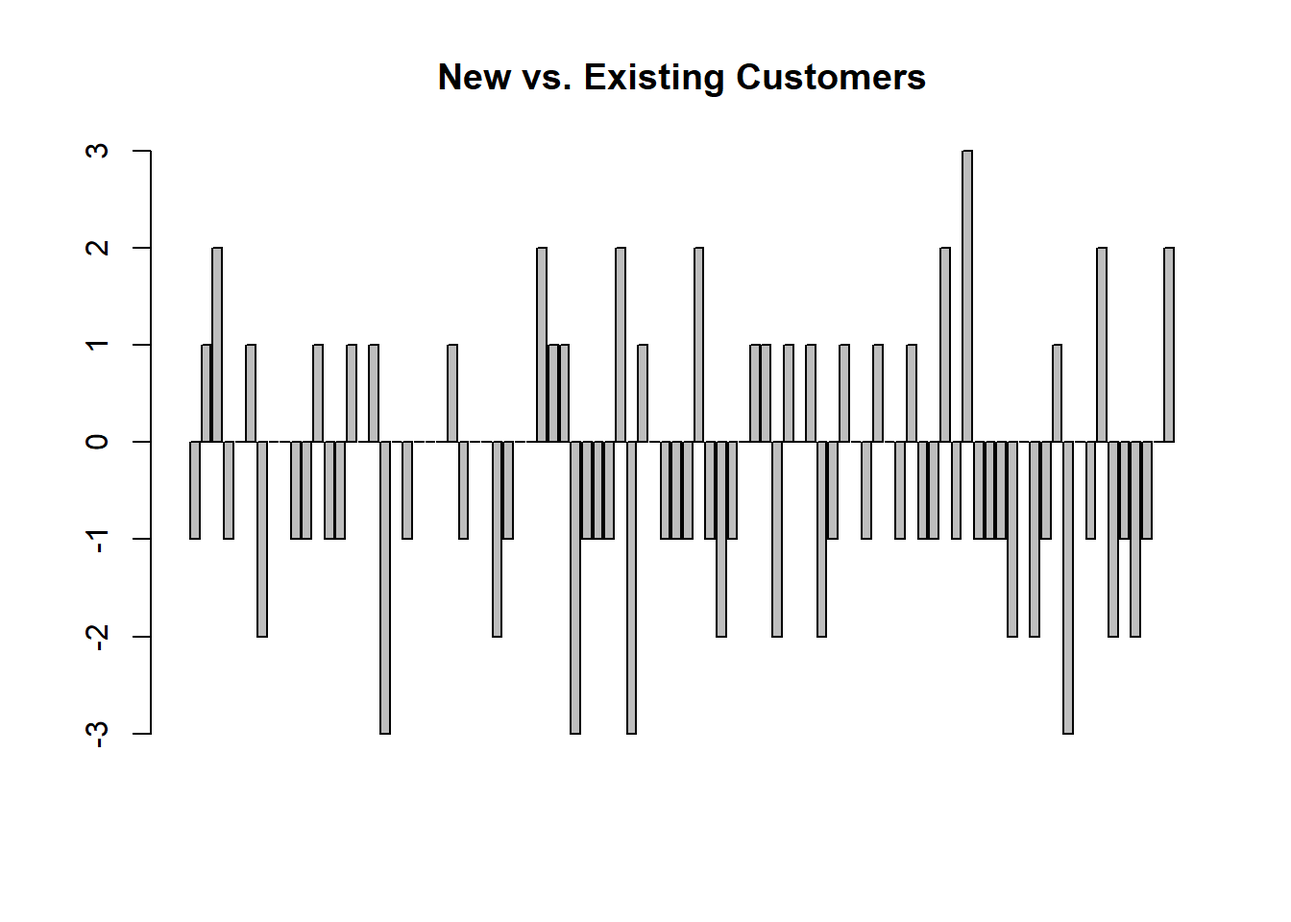
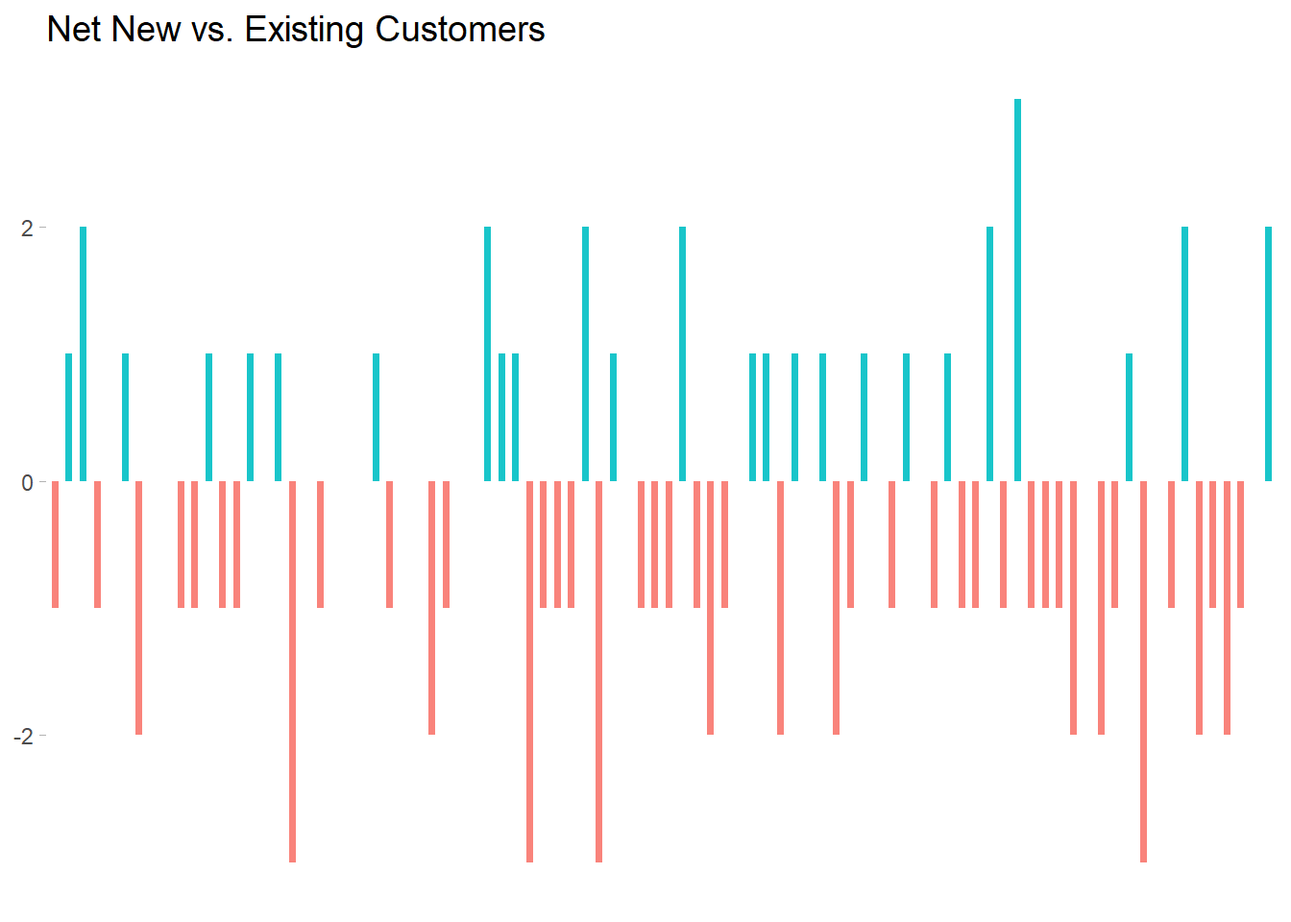
polishing scripting test

Changed region(s): [[0.0312, 0.125, 1.0, 0.9375], [0.0312, 0.0, 0.7188, 0.125], [0.0625, 0.1562, 0.0938, 0.1875]]

diff --git a/docs/scripting.html b/docs/scripting.html
@@ -404,7 +404,7 @@ code span.wa { color: #60a0b0; font-weight: bold; font-style: italic; } /* Warni
 <pre><code>[1] 3588.976</code></pre>
 </div>
 </div>
-<p>As can be seen above, the total marketing spend is $330,185.80 and the average daily spend is $3,588.98.</p>
+<p>As can be seen above, the total marketing spend is $330,185.80 and the average daily spend is $3,588.98. The bar plot demonstrates that most days see between 200 and 400 existing customers visit the site from an “Unidentified” marketing channel. Additionally, there is one day which is a clear outlier seeing approximately 800 customers.</p>
 </section>
 <section id="question-3" class="level2">
 <h2 class="anchored" data-anchor-id="question-3">Question 3</h2>
@@ -425,11 +425,28 @@ code span.wa { color: #60a0b0; font-weight: bold; font-style: italic; } /* Warni
 <span id="cb8-13"><a href="#cb8-13" aria-hidden="true" tabindex="-1"></a>  <span class="fu">mutate</span>(<span class="st">"Delta"</span> <span class="ot">=</span> New <span class="sc">-</span> Existing)</span></code><button title="Copy to Clipboard" class="code-copy-button"><i class="bi"></i></button></pre></div>
 </div>
 <div class="cell">
-<div class="sourceCode cell-code" id="cb9"><pre class="sourceCode r code-with-copy"><code class="sourceCode r"><span id="cb9-1"><a href="#cb9-1" aria-hidden="true" tabindex="-1"></a><span class="fu">barplot</span>(brand<span class="sc">$</span>Delta, <span class="at">main=</span><span class="st">"New vs. Existing Customers"</span>)</span></code><button title="Copy to Clipboard" class="code-copy-button"><i class="bi"></i></button></pre></div>
+<div class="sourceCode cell-code" id="cb9"><pre class="sourceCode r code-with-copy"><code class="sourceCode r"><span id="cb9-1"><a href="#cb9-1" aria-hidden="true" tabindex="-1"></a>brand <span class="ot">&lt;-</span> brand <span class="sc">%&gt;%</span> </span>
+<span id="cb9-2"><a href="#cb9-2" aria-hidden="true" tabindex="-1"></a>  <span class="fu">mutate</span>(<span class="at">mycolor =</span> <span class="fu">ifelse</span>(Delta<span class="sc">&gt;</span><span class="dv">0</span>, <span class="st">"type2"</span>, <span class="st">"type1"</span>))</span>
+<span id="cb9-3"><a href="#cb9-3" aria-hidden="true" tabindex="-1"></a></span>
+<span id="cb9-4"><a href="#cb9-4" aria-hidden="true" tabindex="-1"></a><span class="fu">ggplot</span>(brand, <span class="fu">aes</span>(<span class="at">x=</span>Date, <span class="at">y=</span>Delta)) <span class="sc">+</span></span>
+<span id="cb9-5"><a href="#cb9-5" aria-hidden="true" tabindex="-1"></a>  <span class="fu">geom_segment</span>(<span class="fu">aes</span>(<span class="at">x=</span>Date, <span class="at">xend=</span>Date, <span class="at">y=</span><span class="dv">0</span>, <span class="at">yend=</span>Delta, <span class="at">color=</span>mycolor), <span class="at">size=</span><span class="fl">1.3</span>, <span class="at">alpha=</span><span class="fl">0.9</span>) <span class="sc">+</span></span>
+<span id="cb9-6"><a href="#cb9-6" aria-hidden="true" tabindex="-1"></a>  <span class="fu">theme_light</span>() <span class="sc">+</span></span>
+<span id="cb9-7"><a href="#cb9-7" aria-hidden="true" tabindex="-1"></a>  <span class="fu">theme</span>(</span>
+<span id="cb9-8"><a href="#cb9-8" aria-hidden="true" tabindex="-1"></a>    <span class="at">legend.position =</span> <span class="st">"none"</span>,</span>
+<span id="cb9-9"><a href="#cb9-9" aria-hidden="true" tabindex="-1"></a>    <span class="at">panel.border =</span> <span class="fu">element_blank</span>(),</span>
+<span id="cb9-10"><a href="#cb9-10" aria-hidden="true" tabindex="-1"></a>    <span class="at">plot.title =</span> <span class="fu">element_text</span>(<span class="at">size =</span> <span class="dv">14</span>),</span>
+<span id="cb9-11"><a href="#cb9-11" aria-hidden="true" tabindex="-1"></a>    <span class="at">panel.grid =</span> <span class="fu">element_blank</span>(),</span>
+<span id="cb9-12"><a href="#cb9-12" aria-hidden="true" tabindex="-1"></a>    <span class="at">axis.text.x=</span><span class="fu">element_blank</span>(),</span>
+<span id="cb9-13"><a href="#cb9-13" aria-hidden="true" tabindex="-1"></a>    <span class="at">axis.ticks.x=</span><span class="fu">element_blank</span>(),</span>
+<span id="cb9-14"><a href="#cb9-14" aria-hidden="true" tabindex="-1"></a>    <span class="at">axis.title.x =</span> <span class="fu">element_blank</span>(),</span>
+<span id="cb9-15"><a href="#cb9-15" aria-hidden="true" tabindex="-1"></a>    <span class="at">axis.title.y =</span> <span class="fu">element_blank</span>()</span>
+<span id="cb9-16"><a href="#cb9-16" aria-hidden="true" tabindex="-1"></a>  ) <span class="sc">+</span></span>
+<span id="cb9-17"><a href="#cb9-17" aria-hidden="true" tabindex="-1"></a>  <span class="fu">ggtitle</span>(<span class="st">"Net New vs. Existing Customers"</span>)</span></code><button title="Copy to Clipboard" class="code-copy-button"><i class="bi"></i></button></pre></div>
 <div class="cell-output-display">
 <p><img src="scripting_files/figure-html/unnamed-chunk-6-1.png" class="img-fluid" width="672"></p>
 </div>
 </div>
+<p>The previous visualization demonstrates that the “brand” channel may drive more existing customers than new customers.</p>
 </section>
 <section id="question-4" class="level2">
 <h2 class="anchored" data-anchor-id="question-4">Question 4</h2>
@@ -438,25 +455,57 @@ code span.wa { color: #60a0b0; font-weight: bold; font-style: italic; } /* Warni
 <div class="sourceCode cell-code" id="cb10"><pre class="sourceCode r code-with-copy"><code class="sourceCode r"><span id="cb10-1"><a href="#cb10-1" aria-hidden="true" tabindex="-1"></a>mc <span class="ot">&lt;-</span> df <span class="sc">|&gt;</span></span>
 <span id="cb10-2"><a href="#cb10-2" aria-hidden="true" tabindex="-1"></a>  <span class="fu">mutate</span>(<span class="at">Marketing_Contribution =</span> Gross_Profit <span class="sc">-</span> Marketing_Spend)</span>
 <span id="cb10-3"><a href="#cb10-3" aria-hidden="true" tabindex="-1"></a><span class="fu">barplot</span>(mc<span class="sc">$</span>Marketing_Contribution, <span class="at">main=</span><span class="st">"Marketing Contribution"</span>)</span></code><button title="Copy to Clipboard" class="code-copy-button"><i class="bi"></i></button></pre></div>
+<div class="cell-output-display">
+<p><img src="scripting_files/figure-html/unnamed-chunk-7-1.png" class="img-fluid" width="672"></p>
+</div>
+<div class="sourceCode cell-code" id="cb11"><pre class="sourceCode r code-with-copy"><code class="sourceCode r"><span id="cb11-1"><a href="#cb11-1" aria-hidden="true" tabindex="-1"></a>mc <span class="ot">&lt;-</span> mc <span class="sc">%&gt;%</span> </span>
+<span id="cb11-2"><a href="#cb11-2" aria-hidden="true" tabindex="-1"></a>  <span class="fu">mutate</span>(<span class="at">mycolor =</span> <span class="fu">ifelse</span>(Marketing_Contribution<span class="sc">&gt;</span><span class="dv">0</span>, <span class="st">"type2"</span>, <span class="st">"type1"</span>))</span>
+<span id="cb11-3"><a href="#cb11-3" aria-hidden="true" tabindex="-1"></a></span>
+<span id="cb11-4"><a href="#cb11-4" aria-hidden="true" tabindex="-1"></a><span class="fu">ggplot</span>(mc, <span class="fu">aes</span>(<span class="at">x=</span>Date, <span class="at">y=</span>Marketing_Contribution)) <span class="sc">+</span></span>
+<span id="cb11-5"><a href="#cb11-5" aria-hidden="true" tabindex="-1"></a>  <span class="fu">geom_segment</span>(<span class="fu">aes</span>(<span class="at">x=</span>Date, <span class="at">xend=</span>Date, <span class="at">y=</span><span class="dv">0</span>, <span class="at">yend=</span>Marketing_Contribution, <span class="at">color=</span>mycolor), <span class="at">size=</span><span class="fl">1.3</span>, <span class="at">alpha=</span><span class="fl">0.9</span>) <span class="sc">+</span></span>
+<span id="cb11-6"><a href="#cb11-6" aria-hidden="true" tabindex="-1"></a>  <span class="fu">theme_light</span>() <span class="sc">+</span></span>
+<span id="cb11-7"><a href="#cb11-7" aria-hidden="true" tabindex="-1"></a>  <span class="fu">theme</span>(</span>
+<span id="cb11-8"><a href="#cb11-8" aria-hidden="true" tabindex="-1"></a>    <span class="at">legend.position =</span> <span class="st">"none"</span>,</span>
+<span id="cb11-9"><a href="#cb11-9" aria-hidden="true" tabindex="-1"></a>    <span class="at">panel.border =</span> <span class="fu">element_blank</span>(),</span>
+<span id="cb11-10"><a href="#cb11-10" aria-hidden="true" tabindex="-1"></a>    <span class="at">plot.title =</span> <span class="fu">element_text</span>(<span class="at">size =</span> <span class="dv">14</span>),</span>
+<span id="cb11-11"><a href="#cb11-11" aria-hidden="true" tabindex="-1"></a>    <span class="at">panel.grid =</span> <span class="fu">element_blank</span>(),</span>
+<span id="cb11-12"><a href="#cb11-12" aria-hidden="true" tabindex="-1"></a>    <span class="at">axis.text.x=</span><span class="fu">element_blank</span>(),</span>
+<span id="cb11-13"><a href="#cb11-13" aria-hidden="true" tabindex="-1"></a>    <span class="at">axis.ticks.x=</span><span class="fu">element_blank</span>(),</span>
+<span id="cb11-14"><a href="#cb11-14" aria-hidden="true" tabindex="-1"></a>    <span class="at">axis.title.x =</span> <span class="fu">element_blank</span>(),</span>
+<span id="cb11-15"><a href="#cb11-15" aria-hidden="true" tabindex="-1"></a>    <span class="at">axis.title.y =</span> <span class="fu">element_blank</span>()</span>
+<span id="cb11-16"><a href="#cb11-16" aria-hidden="true" tabindex="-1"></a>  ) <span class="sc">+</span></span>
+<span id="cb11-17"><a href="#cb11-17" aria-hidden="true" tabindex="-1"></a>  <span class="fu">ggtitle</span>(<span class="st">"Marketing Contribution"</span>)</span></code><button title="Copy to Clipboard" class="code-copy-button"><i class="bi"></i></button></pre></div>
+<div class="cell-output cell-output-stderr">
+<pre><code>Warning: Removed 35 rows containing missing values (`geom_segment()`).</code></pre>
+</div>
+<div class="cell-output-display">
+<p><img src="scripting_files/figure-html/unnamed-chunk-7-2.png" class="img-fluid" width="672"></p>
+</div>
 </div>
 </section>
 <section id="question-5" class="level2">
 <h2 class="anchored" data-anchor-id="question-5">Question 5</h2>
 <p>Find correlation between Paid Search Revenue and Organic Search Revenue - as a calculation as well as a plot.</p>
 <div class="cell">
-<div class="sourceCode cell-code" id="cb11"><pre class="sourceCode r code-with-copy"><code class="sourceCode r"><span id="cb11-1"><a href="#cb11-1" aria-hidden="true" tabindex="-1"></a>search <span class="ot">&lt;-</span> df <span class="sc">|&gt;</span></span>
-<span id="cb11-2"><a href="#cb11-2" aria-hidden="true" tabindex="-1"></a>  <span class="fu">filter</span>(df<span class="sc">$</span>Channel <span class="sc">%in%</span> <span class="fu">c</span>(<span class="st">"Paid Search"</span>, <span class="st">"Organic Search"</span>))</span>
-<span id="cb11-3"><a href="#cb11-3" aria-hidden="true" tabindex="-1"></a>search <span class="ot">&lt;-</span> search <span class="sc">|&gt;</span></span>
-<span id="cb11-4"><a href="#cb11-4" aria-hidden="true" tabindex="-1"></a>  <span class="fu">mutate</span>(<span class="st">"Paid"</span> <span class="ot">=</span> <span class="fu">if_else</span>(Channel <span class="sc">==</span> <span class="st">"Paid Search"</span>, Revenue, <span class="dv">0</span>)) <span class="sc">|&gt;</span></span>
-<span id="cb11-5"><a href="#cb11-5" aria-hidden="true" tabindex="-1"></a>  <span class="fu">mutate</span>(<span class="st">"Organic"</span> <span class="ot">=</span> <span class="fu">if_else</span>(Channel <span class="sc">==</span> <span class="st">"Organic Search"</span>, Revenue, <span class="dv">0</span>))</span>
-<span id="cb11-6"><a href="#cb11-6" aria-hidden="true" tabindex="-1"></a>search <span class="ot">&lt;-</span> search <span class="sc">|&gt;</span> <span class="fu">group_by</span>(Date)</span>
-<span id="cb11-7"><a href="#cb11-7" aria-hidden="true" tabindex="-1"></a>search <span class="ot">&lt;-</span> search <span class="sc">|&gt;</span> <span class="fu">summarise</span>(</span>
-<span id="cb11-8"><a href="#cb11-8" aria-hidden="true" tabindex="-1"></a>    <span class="at">Paid =</span> <span class="fu">sum</span>(Paid),</span>
-<span id="cb11-9"><a href="#cb11-9" aria-hidden="true" tabindex="-1"></a>    <span class="at">Organic =</span> <span class="fu">sum</span>(Organic)</span>
-<span id="cb11-10"><a href="#cb11-10" aria-hidden="true" tabindex="-1"></a>)</span>
-<span id="cb11-11"><a href="#cb11-11" aria-hidden="true" tabindex="-1"></a>search[<span class="fu">is.na</span>(search)] <span class="ot">&lt;-</span> <span class="dv">0</span></span>
-<span id="cb11-12"><a href="#cb11-12" aria-hidden="true" tabindex="-1"></a><span class="fu">cor</span>(search<span class="sc">$</span>Paid, search<span class="sc">$</span>Organic)</span>
-<span id="cb11-13"><a href="#cb11-13" aria-hidden="true" tabindex="-1"></a><span class="fu">plot</span>(search<span class="sc">$</span>Paid, search<span class="sc">$</span>Organic)</span></code><button title="Copy to Clipboard" class="code-copy-button"><i class="bi"></i></button></pre></div>
+<div class="sourceCode cell-code" id="cb13"><pre class="sourceCode r code-with-copy"><code class="sourceCode r"><span id="cb13-1"><a href="#cb13-1" aria-hidden="true" tabindex="-1"></a>search <span class="ot">&lt;-</span> df <span class="sc">|&gt;</span></span>
+<span id="cb13-2"><a href="#cb13-2" aria-hidden="true" tabindex="-1"></a>  <span class="fu">filter</span>(df<span class="sc">$</span>Channel <span class="sc">%in%</span> <span class="fu">c</span>(<span class="st">"Paid Search"</span>, <span class="st">"Organic Search"</span>))</span>
+<span id="cb13-3"><a href="#cb13-3" aria-hidden="true" tabindex="-1"></a>search <span class="ot">&lt;-</span> search <span class="sc">|&gt;</span></span>
+<span id="cb13-4"><a href="#cb13-4" aria-hidden="true" tabindex="-1"></a>  <span class="fu">mutate</span>(<span class="st">"Paid"</span> <span class="ot">=</span> <span class="fu">if_else</span>(Channel <span class="sc">==</span> <span class="st">"Paid Search"</span>, Revenue, <span class="dv">0</span>)) <span class="sc">|&gt;</span></span>
+<span id="cb13-5"><a href="#cb13-5" aria-hidden="true" tabindex="-1"></a>  <span class="fu">mutate</span>(<span class="st">"Organic"</span> <span class="ot">=</span> <span class="fu">if_else</span>(Channel <span class="sc">==</span> <span class="st">"Organic Search"</span>, Revenue, <span class="dv">0</span>))</span>
+<span id="cb13-6"><a href="#cb13-6" aria-hidden="true" tabindex="-1"></a>search <span class="ot">&lt;-</span> search <span class="sc">|&gt;</span> <span class="fu">group_by</span>(Date)</span>
+<span id="cb13-7"><a href="#cb13-7" aria-hidden="true" tabindex="-1"></a>search <span class="ot">&lt;-</span> search <span class="sc">|&gt;</span> <span class="fu">summarise</span>(</span>
+<span id="cb13-8"><a href="#cb13-8" aria-hidden="true" tabindex="-1"></a>    <span class="at">Paid =</span> <span class="fu">sum</span>(Paid),</span>
+<span id="cb13-9"><a href="#cb13-9" aria-hidden="true" tabindex="-1"></a>    <span class="at">Organic =</span> <span class="fu">sum</span>(Organic)</span>
+<span id="cb13-10"><a href="#cb13-10" aria-hidden="true" tabindex="-1"></a>)</span>
+<span id="cb13-11"><a href="#cb13-11" aria-hidden="true" tabindex="-1"></a>search[<span class="fu">is.na</span>(search)] <span class="ot">&lt;-</span> <span class="dv">0</span></span>
+<span id="cb13-12"><a href="#cb13-12" aria-hidden="true" tabindex="-1"></a><span class="fu">cor</span>(search<span class="sc">$</span>Paid, search<span class="sc">$</span>Organic)</span></code><button title="Copy to Clipboard" class="code-copy-button"><i class="bi"></i></button></pre></div>
+<div class="cell-output cell-output-stdout">
+<pre><code>[1] 0.8457697</code></pre>
+</div>
+<div class="sourceCode cell-code" id="cb15"><pre class="sourceCode r code-with-copy"><code class="sourceCode r"><span id="cb15-1"><a href="#cb15-1" aria-hidden="true" tabindex="-1"></a><span class="fu">plot</span>(search<span class="sc">$</span>Paid, search<span class="sc">$</span>Organic)</span></code><button title="Copy to Clipboard" class="code-copy-button"><i class="bi"></i></button></pre></div>
+<div class="cell-output-display">
+<p><img src="scripting_files/figure-html/unnamed-chunk-8-1.png" class="img-fluid" width="672"></p>
+</div>
 </div>
 </section>
 </section>
@@ -466,9 +515,9 @@ code span.wa { color: #60a0b0; font-weight: bold; font-style: italic; } /* Warni
 <h2 class="anchored" data-anchor-id="question-1-1">Question 1</h2>
 <p>Read the data into an R or Pandas data frame. Display the top 10 rows of the data frame.</p>
 <div class="cell">
-<div class="sourceCode cell-code" id="cb12"><pre class="sourceCode python code-with-copy"><code class="sourceCode python"><span id="cb12-1"><a href="#cb12-1" aria-hidden="true" tabindex="-1"></a><span class="im">import</span> pandas <span class="im">as</span> pd</span>
-<span id="cb12-2"><a href="#cb12-2" aria-hidden="true" tabindex="-1"></a>df <span class="op">=</span> pd.read_csv(<span class="st">"data/scripting-test.csv"</span>)</span>
-<span id="cb12-3"><a href="#cb12-3" aria-hidden="true" tabindex="-1"></a>df.head(<span class="dv">10</span>)</span></code><button title="Copy to Clipboard" class="code-copy-button"><i class="bi"></i></button></pre></div>
+<div class="sourceCode cell-code" id="cb16"><pre class="sourceCode python code-with-copy"><code class="sourceCode python"><span id="cb16-1"><a href="#cb16-1" aria-hidden="true" tabindex="-1"></a><span class="im">import</span> pandas <span class="im">as</span> pd</span>
+<span id="cb16-2"><a href="#cb16-2" aria-hidden="true" tabindex="-1"></a>df <span class="op">=</span> pd.read_csv(<span class="st">"data/scripting-test.csv"</span>)</span>
+<span id="cb16-3"><a href="#cb16-3" aria-hidden="true" tabindex="-1"></a>df.head(<span class="dv">10</span>)</span></code><button title="Copy to Clipboard" class="code-copy-button"><i class="bi"></i></button></pre></div>
 <div class="cell-output cell-output-stdout">
 <pre><code>       Date         Channel  ... Gross_Profit  Marketing_Spend
 0  1/1/2017  Organic Social  ...       700.84           201.79
@@ -490,22 +539,22 @@ code span.wa { color: #60a0b0; font-weight: bold; font-style: italic; } /* Warni
 <h2 class="anchored" data-anchor-id="question-2-1">Question 2</h2>
 <p>Within this 90-day data set, we observe traffic from an “Unidentified”marketing channel coming to the site. We would like to identify the number of “existing” customers by day from this channel. (“Existing” customers are defined as those who have made a purchase in the past) Please demonstrate this result in a visualization. Are there any insights that you could derive from the visualization? What is the total spend amount and daily average spend on these existing customers?</p>
 <div class="cell">
-<div class="sourceCode cell-code" id="cb14"><pre class="sourceCode python code-with-copy"><code class="sourceCode python"><span id="cb14-1"><a href="#cb14-1" aria-hidden="true" tabindex="-1"></a><span class="im">import</span> numpy <span class="im">as</span> np</span>
-<span id="cb14-2"><a href="#cb14-2" aria-hidden="true" tabindex="-1"></a><span class="im">import</span> matplotlib.pyplot <span class="im">as</span> plt</span>
-<span id="cb14-3"><a href="#cb14-3" aria-hidden="true" tabindex="-1"></a>unidentified <span class="op">=</span> df[(df.Customer_Type <span class="op">==</span> <span class="st">"EXISTING"</span>) <span class="op">&amp;</span> (df.Channel <span class="op">==</span> <span class="st">"Unidentified"</span>)]</span>
-<span id="cb14-4"><a href="#cb14-4" aria-hidden="true" tabindex="-1"></a>y_pos <span class="op">=</span> np.arange(<span class="bu">len</span>(unidentified.Date))</span>
-<span id="cb14-5"><a href="#cb14-5" aria-hidden="true" tabindex="-1"></a>plt.bar(y_pos, unidentified.Customer_Count)</span></code><button title="Copy to Clipboard" class="code-copy-button"><i class="bi"></i></button></pre></div>
+<div class="sourceCode cell-code" id="cb18"><pre class="sourceCode python code-with-copy"><code class="sourceCode python"><span id="cb18-1"><a href="#cb18-1" aria-hidden="true" tabindex="-1"></a><span class="im">import</span> numpy <span class="im">as</span> np</span>
+<span id="cb18-2"><a href="#cb18-2" aria-hidden="true" tabindex="-1"></a><span class="im">import</span> matplotlib.pyplot <span class="im">as</span> plt</span>
+<span id="cb18-3"><a href="#cb18-3" aria-hidden="true" tabindex="-1"></a>unidentified <span class="op">=</span> df[(df.Customer_Type <span class="op">==</span> <span class="st">"EXISTING"</span>) <span class="op">&amp;</span> (df.Channel <span class="op">==</span> <span class="st">"Unidentified"</span>)]</span>
+<span id="cb18-4"><a href="#cb18-4" aria-hidden="true" tabindex="-1"></a>y_pos <span class="op">=</span> np.arange(<span class="bu">len</span>(unidentified.Date))</span>
+<span id="cb18-5"><a href="#cb18-5" aria-hidden="true" tabindex="-1"></a>plt.bar(y_pos, unidentified.Customer_Count)</span></code><button title="Copy to Clipboard" class="code-copy-button"><i class="bi"></i></button></pre></div>
 </div>
 <div class="cell">
-<div class="sourceCode cell-code" id="cb15"><pre class="sourceCode python code-with-copy"><code class="sourceCode python"><span id="cb15-1"><a href="#cb15-1" aria-hidden="true" tabindex="-1"></a>plt.show()</span></code><button title="Copy to Clipboard" class="code-copy-button"><i class="bi"></i></button></pre></div>
+<div class="sourceCode cell-code" id="cb19"><pre class="sourceCode python code-with-copy"><code class="sourceCode python"><span id="cb19-1"><a href="#cb19-1" aria-hidden="true" tabindex="-1"></a>plt.show()</span></code><button title="Copy to Clipboard" class="code-copy-button"><i class="bi"></i></button></pre></div>
 <div class="cell-output-display">
 <p><img src="scripting_files/figure-html/unnamed-chunk-11-1.png" class="img-fluid" width="672"></p>
 </div>
-<div class="sourceCode cell-code" id="cb16"><pre class="sourceCode python code-with-copy"><code class="sourceCode python"><span id="cb16-1"><a href="#cb16-1" aria-hidden="true" tabindex="-1"></a>unidentified[<span class="st">"Marketing_Spend"</span>].<span class="bu">sum</span>()</span></code><button title="Copy to Clipboard" class="code-copy-button"><i class="bi"></i></button></pre></div>
+<div class="sourceCode cell-code" id="cb20"><pre class="sourceCode python code-with-copy"><code class="sourceCode python"><span id="cb20-1"><a href="#cb20-1" aria-hidden="true" tabindex="-1"></a>unidentified[<span class="st">"Marketing_Spend"</span>].<span class="bu">sum</span>()</span></code><button title="Copy to Clipboard" class="code-copy-button"><i class="bi"></i></button></pre></div>
 <div class="cell-output cell-output-stdout">
 <pre><code>330185.78</code></pre>
 </div>
-<div class="sourceCode cell-code" id="cb18"><pre class="sourceCode python code-with-copy"><code class="sourceCode python"><span id="cb18-1"><a href="#cb18-1" aria-hidden="true" tabindex="-1"></a>unidentified[<span class="st">"Marketing_Spend"</span>].mean()</span></code><button title="Copy to Clipboard" class="code-copy-button"><i class="bi"></i></button></pre></div>
+<div class="sourceCode cell-code" id="cb22"><pre class="sourceCode python code-with-copy"><code class="sourceCode python"><span id="cb22-1"><a href="#cb22-1" aria-hidden="true" tabindex="-1"></a>unidentified[<span class="st">"Marketing_Spend"</span>].mean()</span></code><button title="Copy to Clipboard" class="code-copy-button"><i class="bi"></i></button></pre></div>
 <div class="cell-output cell-output-stdout">
 <pre><code>3588.9758695652176</code></pre>
 </div>
@@ -515,16 +564,16 @@ code span.wa { color: #60a0b0; font-weight: bold; font-style: italic; } /* Warni
 <h2 class="anchored" data-anchor-id="question-3-1">Question 3</h2>
 <p>We believe that the Brand channel drives more New Customers than Existing Customers. We would like to verify this statement using the data provided. Please provide the daily difference between Brand channel’s New Customers and Existing Customers using a visualization. Are there any insights from the visualization?</p>
 <div class="cell">
-<div class="sourceCode cell-code" id="cb20"><pre class="sourceCode python code-with-copy"><code class="sourceCode python"><span id="cb20-1"><a href="#cb20-1" aria-hidden="true" tabindex="-1"></a>brand <span class="op">=</span> df[df.Channel <span class="op">==</span> <span class="st">"Brand"</span>]</span>
-<span id="cb20-2"><a href="#cb20-2" aria-hidden="true" tabindex="-1"></a>brand[<span class="st">"New"</span>] <span class="op">=</span> brand.<span class="bu">apply</span>(<span class="kw">lambda</span> x: x[<span class="st">"Customer_Count"</span>] <span class="cf">if</span> x[<span class="st">"Customer_Type"</span>] <span class="op">==</span> <span class="st">"NEW"</span> <span class="cf">else</span> <span class="dv">0</span>, axis<span class="op">=</span><span class="dv">1</span>)</span></code><button title="Copy to Clipboard" class="code-copy-button"><i class="bi"></i></button></pre></div>
-<div class="sourceCode cell-code" id="cb21"><pre class="sourceCode python code-with-copy"><code class="sourceCode python"><span id="cb21-1"><a href="#cb21-1" aria-hidden="true" tabindex="-1"></a>brand[<span class="st">"Existing"</span>] <span class="op">=</span> brand.<span class="bu">apply</span>(<span class="kw">lambda</span> x: x[<span class="st">"Customer_Count"</span>] <span class="cf">if</span> x[<span class="st">"Customer_Type"</span>] <span class="op">==</span> <span class="st">"EXISTING"</span> <span class="cf">else</span> <span class="dv">0</span>, axis<span class="op">=</span><span class="dv">1</span>)</span></code><button title="Copy to Clipboard" class="code-copy-button"><i class="bi"></i></button></pre></div>
-<div class="sourceCode cell-code" id="cb22"><pre class="sourceCode python code-with-copy"><code class="sourceCode python"><span id="cb22-1"><a href="#cb22-1" aria-hidden="true" tabindex="-1"></a>brand <span class="op">=</span> brand.groupby(<span class="st">"Date"</span>)[[<span class="st">"New"</span>, <span class="st">"Existing"</span>]].agg([<span class="st">"sum"</span>])</span>
-<span id="cb22-2"><a href="#cb22-2" aria-hidden="true" tabindex="-1"></a>brand[<span class="st">"Delta"</span>] <span class="op">=</span> brand[<span class="st">"New"</span>] <span class="op">-</span> brand[<span class="st">"Existing"</span>]</span>
-<span id="cb22-3"><a href="#cb22-3" aria-hidden="true" tabindex="-1"></a>y_pos <span class="op">=</span> np.arange(<span class="bu">len</span>(brand.index))</span>
-<span id="cb22-4"><a href="#cb22-4" aria-hidden="true" tabindex="-1"></a>plt.bar(y_pos, brand.Delta)</span></code><button title="Copy to Clipboard" class="code-copy-button"><i class="bi"></i></button></pre></div>
+<div class="sourceCode cell-code" id="cb24"><pre class="sourceCode python code-with-copy"><code class="sourceCode python"><span id="cb24-1"><a href="#cb24-1" aria-hidden="true" tabindex="-1"></a>brand <span class="op">=</span> df[df.Channel <span class="op">==</span> <span class="st">"Brand"</span>]</span>
+<span id="cb24-2"><a href="#cb24-2" aria-hidden="true" tabindex="-1"></a>brand[<span class="st">"New"</span>] <span class="op">=</span> brand.<span class="bu">apply</span>(<span class="kw">lambda</span> x: x[<span class="st">"Customer_Count"</span>] <span class="cf">if</span> x[<span class="st">"Customer_Type"</span>] <span class="op">==</span> <span class="st">"NEW"</span> <span class="cf">else</span> <span class="dv">0</span>, axis<span class="op">=</span><span class="dv">1</span>)</span></code><button title="Copy to Clipboard" class="code-copy-button"><i class="bi"></i></button></pre></div>
+<div class="sourceCode cell-code" id="cb25"><pre class="sourceCode python code-with-copy"><code class="sourceCode python"><span id="cb25-1"><a href="#cb25-1" aria-hidden="true" tabindex="-1"></a>brand[<span class="st">"Existing"</span>] <span class="op">=</span> brand.<span class="bu">apply</span>(<span class="kw">lambda</span> x: x[<span class="st">"Customer_Count"</span>] <span class="cf">if</span> x[<span class="st">"Customer_Type"</span>] <span class="op">==</span> <span class="st">"EXISTING"</span> <span class="cf">else</span> <span class="dv">0</span>, axis<span class="op">=</span><span class="dv">1</span>)</span></code><button title="Copy to Clipboard" class="code-copy-button"><i class="bi"></i></button></pre></div>
+<div class="sourceCode cell-code" id="cb26"><pre class="sourceCode python code-with-copy"><code class="sourceCode python"><span id="cb26-1"><a href="#cb26-1" aria-hidden="true" tabindex="-1"></a>brand <span class="op">=</span> brand.groupby(<span class="st">"Date"</span>)[[<span class="st">"New"</span>, <span class="st">"Existing"</span>]].agg([<span class="st">"sum"</span>])</span>
+<span id="cb26-2"><a href="#cb26-2" aria-hidden="true" tabindex="-1"></a>brand[<span class="st">"Delta"</span>] <span class="op">=</span> brand[<span class="st">"New"</span>] <span class="op">-</span> brand[<span class="st">"Existing"</span>]</span>
+<span id="cb26-3"><a href="#cb26-3" aria-hidden="true" tabindex="-1"></a>y_pos <span class="op">=</span> np.arange(<span class="bu">len</span>(brand.index))</span>
+<span id="cb26-4"><a href="#cb26-4" aria-hidden="true" tabindex="-1"></a>plt.bar(y_pos, brand.Delta)</span></code><button title="Copy to Clipboard" class="code-copy-button"><i class="bi"></i></button></pre></div>
 </div>
 <div class="cell">
-<div class="sourceCode cell-code" id="cb23"><pre class="sourceCode python code-with-copy"><code class="sourceCode python"><span id="cb23-1"><a href="#cb23-1" aria-hidden="true" tabindex="-1"></a>plt.show()</span></code><button title="Copy to Clipboard" class="code-copy-button"><i class="bi"></i></button></pre></div>
+<div class="sourceCode cell-code" id="cb27"><pre class="sourceCode python code-with-copy"><code class="sourceCode python"><span id="cb27-1"><a href="#cb27-1" aria-hidden="true" tabindex="-1"></a>plt.show()</span></code><button title="Copy to Clipboard" class="code-copy-button"><i class="bi"></i></button></pre></div>
 <div class="cell-output-display">
 <p><img src="scripting_files/figure-html/unnamed-chunk-13-3.png" class="img-fluid" width="672"></p>
 </div>
@@ -534,13 +583,13 @@ code span.wa { color: #60a0b0; font-weight: bold; font-style: italic; } /* Warni
 <h2 class="anchored" data-anchor-id="question-4-1">Question 4</h2>
 <p>Please calculate ‘Marketing_Contribution’ using formula: Marketing_Contribution = Gross_Profit - Marketing_Spend. Make a plot of the daily Marketing_Contribution at the aggregated level (for all channels and customer types together)</p>
 <div class="cell">
-<div class="sourceCode cell-code" id="cb24"><pre class="sourceCode python code-with-copy"><code class="sourceCode python"><span id="cb24-1"><a href="#cb24-1" aria-hidden="true" tabindex="-1"></a>mc <span class="op">=</span> df</span>
-<span id="cb24-2"><a href="#cb24-2" aria-hidden="true" tabindex="-1"></a>mc[<span class="st">"Marketing_Contribution"</span>] <span class="op">=</span> mc[<span class="st">"Gross_Profit"</span>] <span class="op">-</span> mc[<span class="st">"Marketing_Spend"</span>]</span>
-<span id="cb24-3"><a href="#cb24-3" aria-hidden="true" tabindex="-1"></a>y_pos <span class="op">=</span> np.arange(<span class="bu">len</span>(mc.Date))</span>
-<span id="cb24-4"><a href="#cb24-4" aria-hidden="true" tabindex="-1"></a>plt.bar(y_pos, mc.Marketing_Contribution)</span></code><button title="Copy to Clipboard" class="code-copy-button"><i class="bi"></i></button></pre></div>
+<div class="sourceCode cell-code" id="cb28"><pre class="sourceCode python code-with-copy"><code class="sourceCode python"><span id="cb28-1"><a href="#cb28-1" aria-hidden="true" tabindex="-1"></a>mc <span class="op">=</span> df</span>
+<span id="cb28-2"><a href="#cb28-2" aria-hidden="true" tabindex="-1"></a>mc[<span class="st">"Marketing_Contribution"</span>] <span class="op">=</span> mc[<span class="st">"Gross_Profit"</span>] <span class="op">-</span> mc[<span class="st">"Marketing_Spend"</span>]</span>
+<span id="cb28-3"><a href="#cb28-3" aria-hidden="true" tabindex="-1"></a>y_pos <span class="op">=</span> np.arange(<span class="bu">len</span>(mc.Date))</span>
+<span id="cb28-4"><a href="#cb28-4" aria-hidden="true" tabindex="-1"></a>plt.bar(y_pos, mc.Marketing_Contribution)</span></code><button title="Copy to Clipboard" class="code-copy-button"><i class="bi"></i></button></pre></div>
 </div>
 <div class="cell">
-<div class="sourceCode cell-code" id="cb25"><pre class="sourceCode python code-with-copy"><code class="sourceCode python"><span id="cb25-1"><a href="#cb25-1" aria-hidden="true" tabindex="-1"></a>plt.show()</span></code><button title="Copy to Clipboard" class="code-copy-button"><i class="bi"></i></button></pre></div>
+<div class="sourceCode cell-code" id="cb29"><pre class="sourceCode python code-with-copy"><code class="sourceCode python"><span id="cb29-1"><a href="#cb29-1" aria-hidden="true" tabindex="-1"></a>plt.show()</span></code><button title="Copy to Clipboard" class="code-copy-button"><i class="bi"></i></button></pre></div>
 <div class="cell-output-display">
 <p><img src="scripting_files/figure-html/unnamed-chunk-15-5.png" class="img-fluid" width="672"></p>
 </div>
@@ -550,21 +599,21 @@ code span.wa { color: #60a0b0; font-weight: bold; font-style: italic; } /* Warni
 <h2 class="anchored" data-anchor-id="question-5-1">Question 5</h2>
 <p>Find correlation between Paid Search Revenue and Organic Search Revenue - as a calculation as well as a plot.</p>
 <div class="cell">
-<div class="sourceCode cell-code" id="cb26"><pre class="sourceCode python code-with-copy"><code class="sourceCode python"><span id="cb26-1"><a href="#cb26-1" aria-hidden="true" tabindex="-1"></a>search <span class="op">=</span> df[(df.Channel <span class="op">==</span> <span class="st">"Paid Search"</span>) <span class="op">|</span> (df.Channel <span class="op">==</span> <span class="st">"Organic Search"</span>)]</span>
-<span id="cb26-2"><a href="#cb26-2" aria-hidden="true" tabindex="-1"></a>search[<span class="st">"Paid"</span>] <span class="op">=</span> search.<span class="bu">apply</span>(<span class="kw">lambda</span> x: x[<span class="st">"Revenue"</span>] <span class="cf">if</span> x[<span class="st">"Channel"</span>] <span class="op">==</span> <span class="st">"Paid Search"</span> <span class="cf">else</span> <span class="dv">0</span>, axis<span class="op">=</span><span class="dv">1</span>)</span></code><button title="Copy to Clipboard" class="code-copy-button"><i class="bi"></i></button></pre></div>
-<div class="sourceCode cell-code" id="cb27"><pre class="sourceCode python code-with-copy"><code class="sourceCode python"><span id="cb27-1"><a href="#cb27-1" aria-hidden="true" tabindex="-1"></a>search[<span class="st">"Organic"</span>] <span class="op">=</span> search.<span class="bu">apply</span>(<span class="kw">lambda</span> x: x[<span class="st">"Revenue"</span>] <span class="cf">if</span> x[<span class="st">"Channel"</span>] <span class="op">==</span> <span class="st">"Organic Search"</span> <span class="cf">else</span> <span class="dv">0</span>, axis<span class="op">=</span><span class="dv">1</span>)</span></code><button title="Copy to Clipboard" class="code-copy-button"><i class="bi"></i></button></pre></div>
-<div class="sourceCode cell-code" id="cb28"><pre class="sourceCode python code-with-copy"><code class="sourceCode python"><span id="cb28-1"><a href="#cb28-1" aria-hidden="true" tabindex="-1"></a>search <span class="op">=</span> search.groupby(<span class="st">"Date"</span>)[[<span class="st">"Paid"</span>, <span class="st">"Organic"</span>]].agg([<span class="st">"sum"</span>])</span></code><button title="Copy to Clipboard" class="code-copy-button"><i class="bi"></i></button></pre></div>
+<div class="sourceCode cell-code" id="cb30"><pre class="sourceCode python code-with-copy"><code class="sourceCode python"><span id="cb30-1"><a href="#cb30-1" aria-hidden="true" tabindex="-1"></a>search <span class="op">=</span> df[(df.Channel <span class="op">==</span> <span class="st">"Paid Search"</span>) <span class="op">|</span> (df.Channel <span class="op">==</span> <span class="st">"Organic Search"</span>)]</span>
+<span id="cb30-2"><a href="#cb30-2" aria-hidden="true" tabindex="-1"></a>search[<span class="st">"Paid"</span>] <span class="op">=</span> search.<span class="bu">apply</span>(<span class="kw">lambda</span> x: x[<span class="st">"Revenue"</span>] <span class="cf">if</span> x[<span class="st">"Channel"</span>] <span class="op">==</span> <span class="st">"Paid Search"</span> <span class="cf">else</span> <span class="dv">0</span>, axis<span class="op">=</span><span class="dv">1</span>)</span></code><button title="Copy to Clipboard" class="code-copy-button"><i class="bi"></i></button></pre></div>
+<div class="sourceCode cell-code" id="cb31"><pre class="sourceCode python code-with-copy"><code class="sourceCode python"><span id="cb31-1"><a href="#cb31-1" aria-hidden="true" tabindex="-1"></a>search[<span class="st">"Organic"</span>] <span class="op">=</span> search.<span class="bu">apply</span>(<span class="kw">lambda</span> x: x[<span class="st">"Revenue"</span>] <span class="cf">if</span> x[<span class="st">"Channel"</span>] <span class="op">==</span> <span class="st">"Organic Search"</span> <span class="cf">else</span> <span class="dv">0</span>, axis<span class="op">=</span><span class="dv">1</span>)</span></code><button title="Copy to Clipboard" class="code-copy-button"><i class="bi"></i></button></pre></div>
+<div class="sourceCode cell-code" id="cb32"><pre class="sourceCode python code-with-copy"><code class="sourceCode python"><span id="cb32-1"><a href="#cb32-1" aria-hidden="true" tabindex="-1"></a>search <span class="op">=</span> search.groupby(<span class="st">"Date"</span>)[[<span class="st">"Paid"</span>, <span class="st">"Organic"</span>]].agg([<span class="st">"sum"</span>])</span></code><button title="Copy to Clipboard" class="code-copy-button"><i class="bi"></i></button></pre></div>
 </div>
 <div class="cell">
-<div class="sourceCode cell-code" id="cb29"><pre class="sourceCode python code-with-copy"><code class="sourceCode python"><span id="cb29-1"><a href="#cb29-1" aria-hidden="true" tabindex="-1"></a>search.corr()</span></code><button title="Copy to Clipboard" class="code-copy-button"><i class="bi"></i></button></pre></div>
+<div class="sourceCode cell-code" id="cb33"><pre class="sourceCode python code-with-copy"><code class="sourceCode python"><span id="cb33-1"><a href="#cb33-1" aria-hidden="true" tabindex="-1"></a>search.corr()</span></code><button title="Copy to Clipboard" class="code-copy-button"><i class="bi"></i></button></pre></div>
 <div class="cell-output cell-output-stdout">
 <pre><code>                Paid  Organic
                  sum      sum
 Paid    sum  1.00000  0.84577
 Organic sum  0.84577  1.00000</code></pre>
 </div>
-<div class="sourceCode cell-code" id="cb31"><pre class="sourceCode python code-with-copy"><code class="sourceCode python"><span id="cb31-1"><a href="#cb31-1" aria-hidden="true" tabindex="-1"></a>plt.scatter(search.Paid, search.Organic)</span>
-<span id="cb31-2"><a href="#cb31-2" aria-hidden="true" tabindex="-1"></a>plt.show()</span></code><button title="Copy to Clipboard" class="code-copy-button"><i class="bi"></i></button></pre></div>
+<div class="sourceCode cell-code" id="cb35"><pre class="sourceCode python code-with-copy"><code class="sourceCode python"><span id="cb35-1"><a href="#cb35-1" aria-hidden="true" tabindex="-1"></a>plt.scatter(search.Paid, search.Organic)</span>
+<span id="cb35-2"><a href="#cb35-2" aria-hidden="true" tabindex="-1"></a>plt.show()</span></code><button title="Copy to Clipboard" class="code-copy-button"><i class="bi"></i></button></pre></div>
 <div class="cell-output-display">
 <p><img src="scripting_files/figure-html/unnamed-chunk-17-7.png" class="img-fluid" width="672"></p>
 </div>
